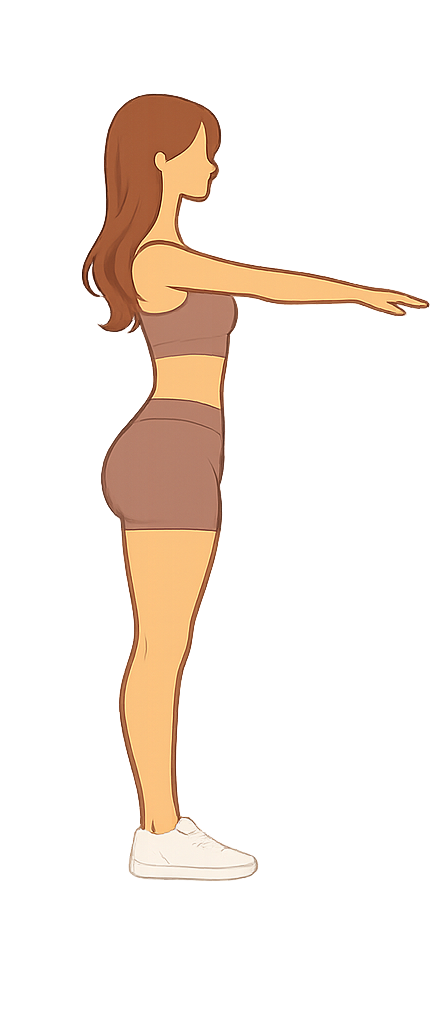
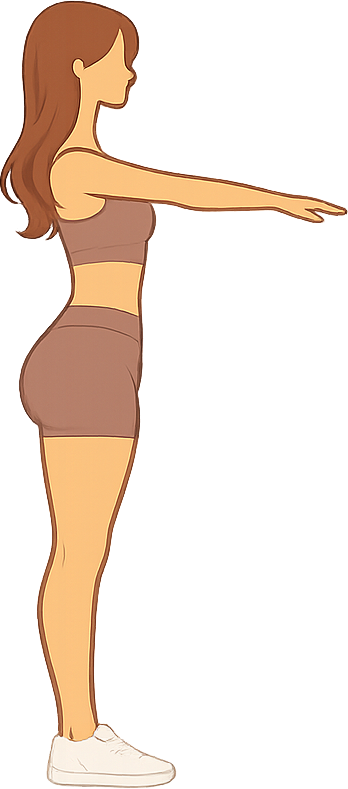
Add dismissable "needs your attention" items on Coach Home, fix a stray key-spread crash, and re-crop the photo-pose guide images
Coach Home's attention rows now have an "x" to dismiss them, backed by
a new programming.dashboard_dismissals table (migration 0019). Each
item carries a signature of its own severity (missed-day count, days
until a block ends, etc.) so a dismissal only holds for the rest of
the current Boise day, or until that signature gets worse — whichever
comes first — instead of silently suppressing a still-real problem.

Also fixes CheckinWeekTimeline spreading a `key` prop into JSX (which
Expo's LogBox was surfacing as a blocking full-screen error), and
recrops the nutrition photo-pose PNGs to their actual content bounds.

diff --git a/app/(coach)/index.web.js b/app/(coach)/index.web.js
@@ -3,7 +3,8 @@ import { View, Text, Pressable, ScrollView, ActivityIndicator } from "react-nati
 import { useRouter } from "expo-router";
 import { useAuth } from "../../lib/auth/AuthProvider";
 import { todayInBoise, dayOfWeekInBoise } from "../../lib/boiseDate";
-import { getCoachDashboardStats, computeAttentionItems } from "../../lib/programming/coachDashboard";
+import { getCoachDashboardStats, computeAttentionItems, filterDismissedItems } from "../../lib/programming/coachDashboard";
+import { listDismissals, dismissAttentionItem } from "../../lib/programming/dashboardDismissals";
 import { STATUS_LABELS as SPC_STATUS_LABELS, STATUS_TONES as SPC_STATUS_TONES, STATUS_ORDER as SPC_STATUS_ORDER } from "../../lib/programming/spcStatus";
 import { CoachShell } from "../../components/CoachShell";
 import { fonts, colors, statusColors } from "../../lib/theme";
@@ -41,21 +42,25 @@ function Panel({ title, children, style }) {
   );
 }
 
-function AttentionRow({ title, subtitle, onPress }) {
+function AttentionRow({ title, subtitle, onPress, onDismiss }) {
   return (
-    <Pressable
-      onPress={onPress}
-      className="mb-2 flex-row items-center justify-between rounded-xl px-4 py-3.5"
+    <View
+      className="mb-2 flex-row items-center rounded-xl px-4 py-3.5"
       style={{ backgroundColor: "#fdece5", borderWidth: 1, borderColor: "#f0d4c9" }}
     >
-      <View className="flex-1 pr-2">
-        <Text style={{ fontFamily: fonts.sansBold, color: "#8a3a24", fontSize: 13.5 }}>{title}</Text>
-        <Text className="mt-0.5" style={{ fontFamily: fonts.sans, color: "#a8574a", fontSize: 12 }}>
-          {subtitle}
-        </Text>
-      </View>
-      <Text style={{ color: "#c2543a", fontSize: 15 }}>›</Text>
-    </Pressable>
+      <Pressable onPress={onPress} className="flex-1 flex-row items-center pr-2">
+        <View className="flex-1 pr-2">
+          <Text style={{ fontFamily: fonts.sansBold, color: "#8a3a24", fontSize: 13.5 }}>{title}</Text>
+          <Text className="mt-0.5" style={{ fontFamily: fonts.sans, color: "#a8574a", fontSize: 12 }}>
+            {subtitle}
+          </Text>
+        </View>
+        <Text style={{ color: "#c2543a", fontSize: 15 }}>›</Text>
+      </Pressable>
+      <Pressable onPress={onDismiss} hitSlop={8} className="ml-2 items-center justify-center rounded-full" style={{ width: 22, height: 22 }}>
+        <Text style={{ color: "#c2543a", fontSize: 15, fontFamily: fonts.sansBold }}>×</Text>
+      </Pressable>
+    </View>
   );
 }
 
@@ -237,6 +242,7 @@ export default function CoachHomeWeb() {
   const { profile } = useAuth();
   const router = useRouter();
   const [stats, setStats] = useState(null);
+  const [dismissals, setDismissals] = useState({});
   const [loadError, setLoadError] = useState(null);
 
   const load = useCallback(async () => {
@@ -244,6 +250,16 @@ export default function CoachHomeWeb() {
       setStats(await getCoachDashboardStats());
     } catch (err) {
       setLoadError(err.message ?? String(err));
+      return;
+    }
+    // Isolated from the stats fetch on purpose — same pattern as the
+    // SPC/nutrition rosters inside getCoachDashboardStats: a not-yet-run
+    // migration for this table shouldn't take down the whole dashboard,
+    // it should just leave every attention item un-dismissable for now.
+    try {
+      setDismissals(await listDismissals());
+    } catch {
+      setDismissals({});
     }
   }, []);
 
@@ -276,7 +292,21 @@ export default function CoachHomeWeb() {
   // Shared with the native dashboard (lib/programming/coachDashboard.js) so
   // the two can't drift on what counts as "needs attention" — this used to
   // be computed inline here only.
-  const attentionItems = computeAttentionItems(stats).map((item) => ({ ...item, onPress: () => router.push(item.route) }));
+  const allAttentionItems = computeAttentionItems(stats);
+  const attentionItems = filterDismissedItems(allAttentionItems, dismissals, todayInBoise()).map((item) => ({
+    ...item,
+    onPress: () => router.push(item.route),
+  }));
+
+  const handleDismiss = (item) => {
+    // Optimistic — the row disappears immediately, the write happens in
+    // the background. If it fails, the next load() will bring the row
+    // back rather than leaving the UI lying about what's dismissed.
+    setDismissals((prev) => ({ ...prev, [item.key]: { signature: item.signature, dismissedAt: new Date().toISOString() } }));
+    dismissAttentionItem(item.key, item.signature, profile?.id).catch((err) => {
+      console.error("Failed to dismiss attention item:", err);
+    });
+  };
 
   const goToClients = (programParam) => {
     router.push(programParam ? `/(coach)/clients?program=${programParam}` : "/(coach)/clients");
@@ -298,7 +328,13 @@ export default function CoachHomeWeb() {
               </Text>
             ) : (
               attentionItems.map((item) => (
-                <AttentionRow key={item.key} title={item.title} subtitle={item.subtitle} onPress={item.onPress} />
+                <AttentionRow
+                  key={item.key}
+                  title={item.title}
+                  subtitle={item.subtitle}
+                  onPress={item.onPress}
+                  onDismiss={() => handleDismiss(item)}
+                />
               ))
             )}
           </Panel>

diff --git a/app/(coach)/index.js b/app/(coach)/index.js
@@ -4,7 +4,8 @@ import { useSafeAreaInsets } from "react-native-safe-area-context";
 import { useRouter } from "expo-router";
 import { useAuth } from "../../lib/auth/AuthProvider";
 import { todayInBoise, dayOfWeekInBoise } from "../../lib/boiseDate";
-import { getCoachDashboardStats, computeAttentionItems } from "../../lib/programming/coachDashboard";
+import { getCoachDashboardStats, computeAttentionItems, filterDismissedItems } from "../../lib/programming/coachDashboard";
+import { listDismissals, dismissAttentionItem } from "../../lib/programming/dashboardDismissals";
 import { STATUS_LABELS as SPC_STATUS_LABELS, STATUS_TONES as SPC_STATUS_TONES, STATUS_ORDER as SPC_STATUS_ORDER } from "../../lib/programming/spcStatus";
 import { fonts, colors, statusColors } from "../../lib/theme";
 
@@ -35,21 +36,25 @@ function SectionLabel({ children }) {
   );
 }
 
-function AttentionCard({ title, subtitle, onPress }) {
+function AttentionCard({ title, subtitle, onPress, onDismiss }) {
   return (
-    <Pressable
-      onPress={onPress}
-      className="mb-2.5 flex-row items-center justify-between rounded-2xl px-4 py-3.5"
+    <View
+      className="mb-2.5 flex-row items-center rounded-2xl px-4 py-3.5"
       style={{ backgroundColor: "#fdece5", borderWidth: 1, borderColor: "#f0d4c9" }}
     >
-      <View className="flex-1 pr-2">
-        <Text style={{ fontFamily: fonts.sansBold, color: "#8a3a24", fontSize: 13.5 }}>{title}</Text>
-        <Text className="mt-0.5" style={{ fontFamily: fonts.sans, color: "#a8574a", fontSize: 12 }}>
-          {subtitle}
-        </Text>
-      </View>
-      <Text style={{ color: "#c2543a", fontSize: 15 }}>›</Text>
-    </Pressable>
+      <Pressable onPress={onPress} className="flex-1 flex-row items-center pr-2">
+        <View className="flex-1 pr-2">
+          <Text style={{ fontFamily: fonts.sansBold, color: "#8a3a24", fontSize: 13.5 }}>{title}</Text>
+          <Text className="mt-0.5" style={{ fontFamily: fonts.sans, color: "#a8574a", fontSize: 12 }}>
+            {subtitle}
+          </Text>
+        </View>
+        <Text style={{ color: "#c2543a", fontSize: 15 }}>›</Text>
+      </Pressable>
+      <Pressable onPress={onDismiss} hitSlop={8} className="ml-2 items-center justify-center rounded-full" style={{ width: 22, height: 22 }}>
+        <Text style={{ color: "#c2543a", fontSize: 15, fontFamily: fonts.sansBold }}>×</Text>
+      </Pressable>
+    </View>
   );
 }
 
@@ -114,6 +119,7 @@ export default function CoachHome() {
   const router = useRouter();
   const insets = useSafeAreaInsets();
   const [stats, setStats] = useState(null);
+  const [dismissals, setDismissals] = useState({});
   const [loadError, setLoadError] = useState(null);
 
   const load = useCallback(async () => {
@@ -121,6 +127,16 @@ export default function CoachHome() {
       setStats(await getCoachDashboardStats());
     } catch (err) {
       setLoadError(err.message ?? String(err));
+      return;
+    }
+    // Isolated from the stats fetch on purpose — same pattern as the
+    // SPC/nutrition rosters inside getCoachDashboardStats: a not-yet-run
+    // migration for this table shouldn't take down the whole dashboard, it
+    // should just leave every attention item un-dismissable for now.
+    try {
+      setDismissals(await listDismissals());
+    } catch {
+      setDismissals({});
     }
   }, []);
 
@@ -146,7 +162,22 @@ export default function CoachHome() {
     );
   }
 
-  const attentionItems = computeAttentionItems(stats).map((item) => ({ ...item, onPress: () => router.push(item.route) }));
+  const allAttentionItems = computeAttentionItems(stats);
+  const attentionItems = filterDismissedItems(allAttentionItems, dismissals, todayInBoise()).map((item) => ({
+    ...item,
+    onPress: () => router.push(item.route),
+  }));
+
+  const handleDismiss = (item) => {
+    // Optimistic — the row disappears immediately, the write happens in
+    // the background. If it fails, the next load() will bring the row
+    // back rather than leaving the UI lying about what's dismissed.
+    setDismissals((prev) => ({ ...prev, [item.key]: { signature: item.signature, dismissedAt: new Date().toISOString() } }));
+    dismissAttentionItem(item.key, item.signature, profile?.id).catch((err) => {
+      console.error("Failed to dismiss attention item:", err);
+    });
+  };
+
   const goToClients = (programParam) => router.push(programParam ? `/(coach)/clients?program=${programParam}` : "/(coach)/clients");
 
   return (
@@ -169,7 +200,13 @@ export default function CoachHome() {
         <View className="mb-6">
           <SectionLabel>Needs your attention</SectionLabel>
           {attentionItems.map((item) => (
-            <AttentionCard key={item.key} title={item.title} subtitle={item.subtitle} onPress={item.onPress} />
+            <AttentionCard
+              key={item.key}
+              title={item.title}
+              subtitle={item.subtitle}
+              onPress={item.onPress}
+              onDismiss={() => handleDismiss(item)}
+            />
           ))}
         </View>
       )}

diff --git a/lib/programming/coachDashboard.js b/lib/programming/coachDashboard.js
@@ -1,7 +1,7 @@
 import { listAssignments, listMembers } from "./clients";
 import { listGroupPrograms, listBlocksForProgram, listWorkoutsForBlock, addDays } from "./blocks";
 import { currentWeekNumber } from "./schedule";
-import { todayInBoise } from "../boiseDate";
+import { todayInBoise, dateInBoise } from "../boiseDate";
 import { getSpcRoster, checkAndAutoDraft } from "./spcDashboard";
 import { getNutritionRoster } from "../nutrition/dashboard";
 import { STATUS_ORDER as SPC_STATUS_ORDER } from "./spcStatus";
@@ -194,18 +194,21 @@ export function computeAttentionItems(stats) {
   return [
     ...stats.spcNeedsNewProgram.map((c) => ({
       key: `spc-new-program-${c.userId}`,
+      signature: "new_program_asap",
       title: `${c.name} needs a new SPC program`,
       subtitle: "Blank draft auto-created — ready to fill in",
       route: `/(coach)/spc/${c.userId}`,
     })),
     ...stats.nutritionReadyForCheckin.map((c) => ({
       key: `checkin-${c.userId}`,
+      signature: "ready",
       title: `${c.name}'s check-in is ready to review`,
       subtitle: "Submitted this week, awaiting your notes",
       route: `/(coach)/nutrition/clients/${c.userId}`,
     })),
     ...stats.nutritionAtRiskClients.map((c) => ({
       key: `nutrition-risk-${c.userId}`,
+      signature: String(c.missedDays),
       title: `${c.name} missed ${c.missedDays} logging day${c.missedDays === 1 ? "" : "s"} this week`,
       subtitle: "Nutrition — worth a check-in",
       route: `/(coach)/nutrition/clients/${c.userId}`,
@@ -214,6 +217,7 @@ export function computeAttentionItems(stats) {
       .filter((p) => p.unpublishedThisWeek)
       .map((p) => ({
         key: `group-unpub-${p.programId}`,
+        signature: "unpublished",
         title: `${p.name}: this week isn't published`,
         subtitle: "Sessions are still drafts",
         route: `/(coach)/blocks?program=${p.programId}`,
@@ -222,15 +226,33 @@ export function computeAttentionItems(stats) {
       .filter((p) => p.hasActiveBlock && p.daysUntilEnd <= 7 && !p.hasNextWeekBlock)
       .map((p) => ({
         key: `group-gap-${p.programId}`,
+        signature: String(p.daysUntilEnd),
         title: `${p.name}: block ends in ${p.daysUntilEnd} day${p.daysUntilEnd === 1 ? "" : "s"}`,
         subtitle: "Nothing queued to start after it",
         route: `/(coach)/blocks?program=${p.programId}`,
       })),
     stats.unassignedCount > 0 && {
       key: "unassigned",
+      signature: String(stats.unassignedCount),
       title: `${stats.unassignedCount} client${stats.unassignedCount === 1 ? "" : "s"} not enrolled in anything`,
       subtitle: "Linked but not assigned to a program or nutrition",
       route: "/(coach)/clients?program=unassigned",
     },
   ].filter(Boolean);
+}
+
+// Dismiss ("x") support: an item stays hidden only while its underlying
+// severity hasn't changed AND it's still the same Boise calendar day it was
+// dismissed on. Either the signature moving (e.g. missed-day count going up,
+// a block's days-until-end ticking down) or a new day starting brings it
+// back — "bad behavior continuing" always wins over a stale dismissal.
+// `dismissals` is the {key: {signature, dismissedAt}} map from
+// listDismissals(); `today` is a todayInBoise() string.
+export function filterDismissedItems(items, dismissals, today) {
+  return items.filter((item) => {
+    const dismissal = dismissals[item.key];
+    if (!dismissal) return true;
+    if (dismissal.signature !== item.signature) return true;
+    return dateInBoise(new Date(dismissal.dismissedAt)) !== today;
+  });
 }

diff --git a/components/nutrition/PhotoUpload.js b/components/nutrition/PhotoUpload.js
@@ -1,5 +1,5 @@
 import { useState } from "react";
-import { View, Text, Image, Pressable, Modal, Alert, ActivityIndicator, TextInput, Platform, StyleSheet } from "react-native";
+import { View, Text, Image, Pressable, Modal, Alert, ActivityIndicator, TextInput, Platform } from "react-native";
 import { Ionicons } from "@expo/vector-icons";
 import { pickPhoto } from "../../lib/nutrition/imagePicker";
 import { uploadPhoto } from "../../lib/nutrition/photos";
@@ -74,7 +74,10 @@ function AngleBox({ angle, label, selected, uploading, onPicked }) {
         ) : (
           <>
             <Image source={POSE_IMAGES[angle]} resizeMode="contain" style={{ width: "100%", height: "100%" }} />
-            <View pointerEvents="none" style={[StyleSheet.absoluteFillObject, { alignItems: "center", justifyContent: "center" }]}>
+            <View
+              pointerEvents="none"
+              style={{ position: "absolute", top: 0, width: "100%", height: "100%", alignItems: "center", justifyContent: "center" }}
+            >
               <View
                 className="items-center justify-center rounded-full"
                 style={{ width: 36, height: 36, backgroundColor: "rgba(0,0,0,0.35)" }}

diff --git a/components/nutrition/CheckinWeekTimeline.js b/components/nutrition/CheckinWeekTimeline.js
@@ -93,7 +93,6 @@ export function CheckinWeekTimeline({ userId, client, checkins, photos, today, o
   const checkinsByWeek = Object.fromEntries(checkins.map((c) => [c.week_start, c]));
 
   const rowProps = (week, isCurrent, isUpcoming) => ({
-    key: week.start,
     week,
     isCurrent,
     isUpcoming,
@@ -110,7 +109,7 @@ export function CheckinWeekTimeline({ userId, client, checkins, photos, today, o
         Upcoming
       </Text>
       {upcoming.map((w) => (
-        <Row {...rowProps(w, false, true)} />
+        <Row key={w.start} {...rowProps(w, false, true)} />
       ))}
 
       <Text className="mb-1.5 mt-3 text-xs uppercase text-stone-400" style={{ fontFamily: fonts.sansSemiBold, letterSpacing: 0.5 }}>
@@ -122,7 +121,7 @@ export function CheckinWeekTimeline({ userId, client, checkins, photos, today, o
         Past
       </Text>
       {recent.slice(1).map((w) => (
-        <Row {...rowProps(w, false, false)} />
+        <Row key={w.start} {...rowProps(w, false, false)} />
       ))}
     </View>
   );

diff --git a/lib/programming/dashboardDismissals.js b/lib/programming/dashboardDismissals.js
@@ -1,0 +1,17 @@
+import { programming } from "../supabase/client";
+
+// Keyed by the same stable `key` computeAttentionItems() already builds
+// (e.g. "nutrition-risk-<userId>"). Returned as a plain object rather than
+// the raw row array so callers can do a cheap `dismissals[item.key]` lookup.
+export async function listDismissals() {
+  const { data, error } = await programming.from("dashboard_dismissals").select("key, signature, dismissed_at");
+  if (error) throw error;
+  return Object.fromEntries(data.map((d) => [d.key, { signature: d.signature, dismissedAt: d.dismissed_at }]));
+}
+
+export async function dismissAttentionItem(key, signature, dismissedBy) {
+  const { error } = await programming
+    .from("dashboard_dismissals")
+    .upsert({ key, signature, dismissed_at: new Date().toISOString(), dismissed_by: dismissedBy }, { onConflict: "key" });
+  if (error) throw error;
+}
